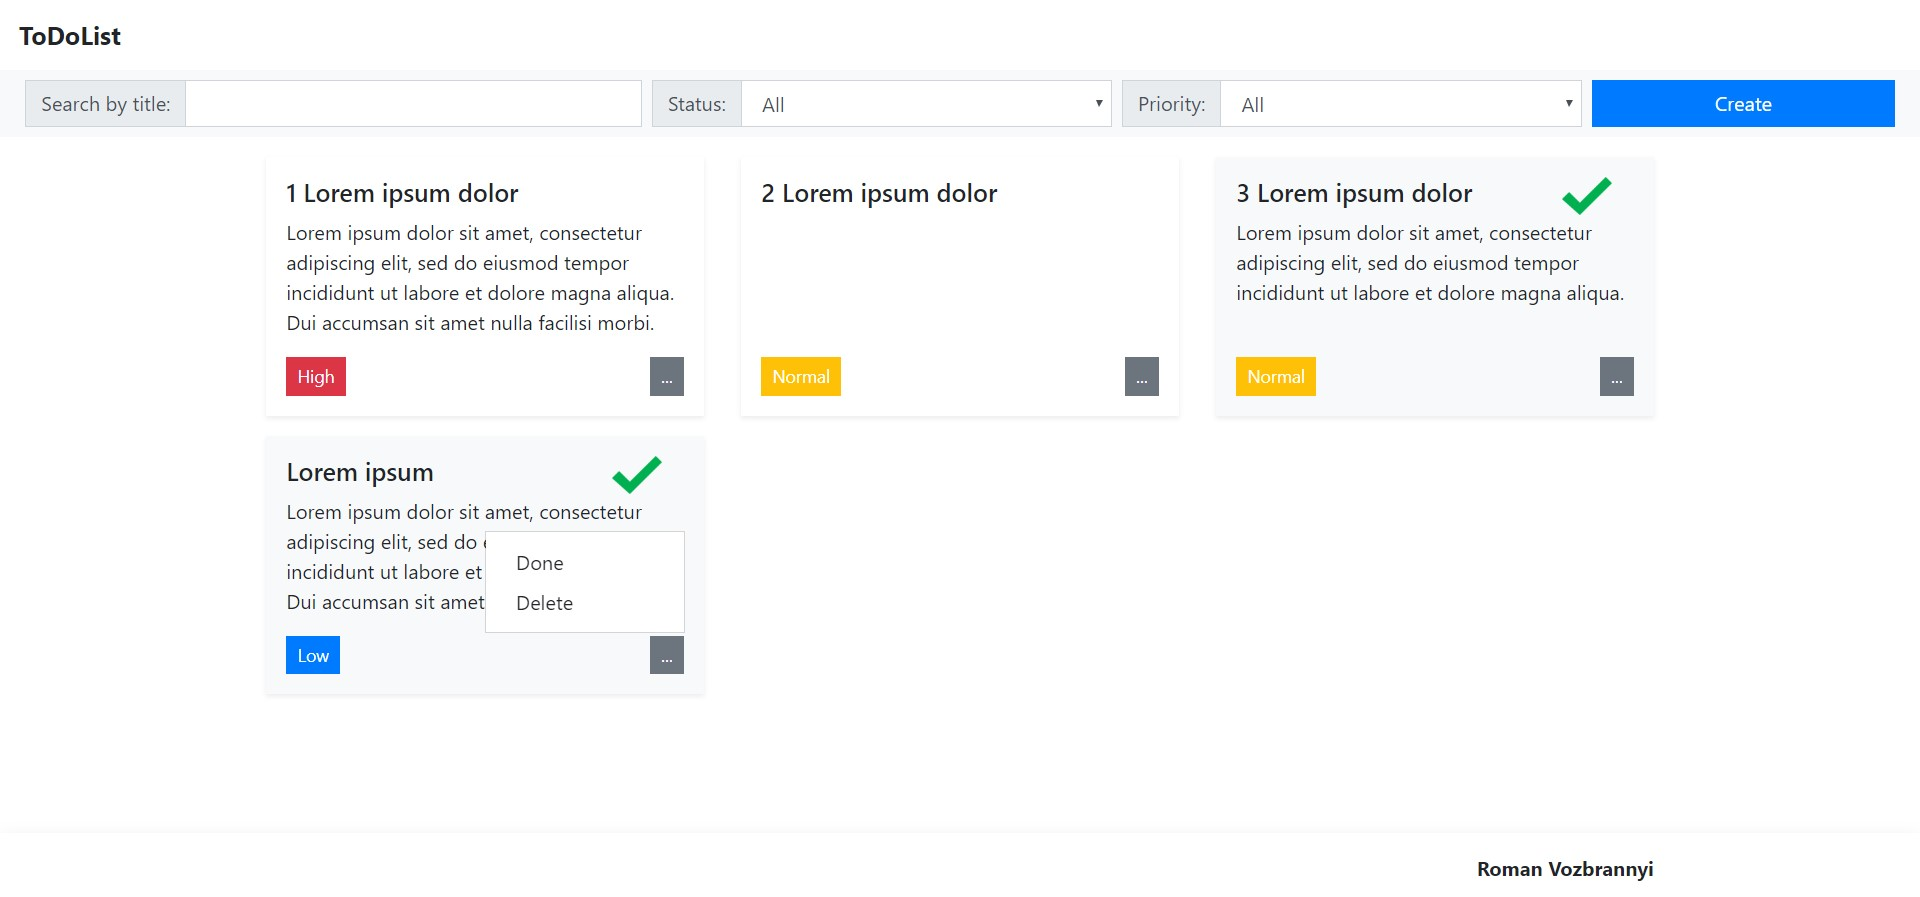
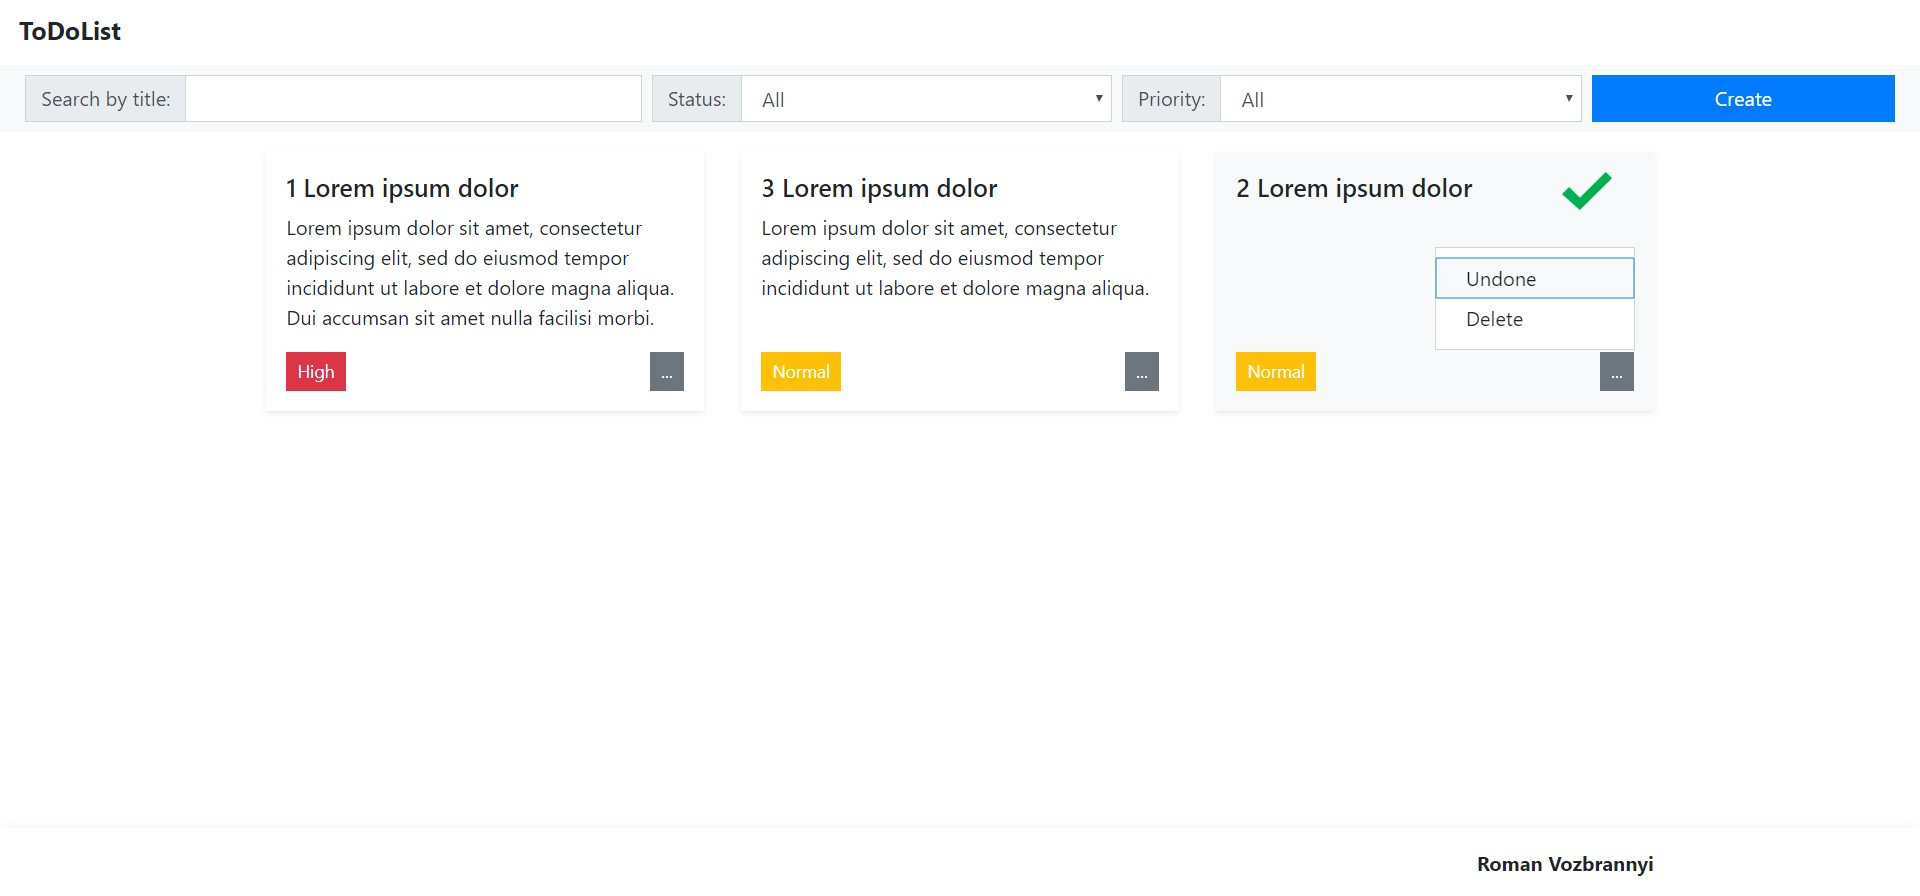
readme done

diff --git a/README.md b/README.md
@@ -1,6 +1,6 @@
 # ToDoList
 
-Desc...
+Simple todo-list.
 
 ## Usage
 
@@ -9,6 +9,7 @@ Desc...
 All user tasks displayed in the center of the window.
 Tasks are sorted by priority and status.
 
+---
 ### Create task
 ![alt text](screenshots/add%20task.jpg)
 You need to click "Create" button on the top right to open modal.
@@ -22,6 +23,7 @@ You need to click "Create" button on the top right to open modal.
 ![alt text](screenshots/form%20validation.jpg)
 Invalid input example.
 
+---
 ### Edit task
 ![alt text](screenshots/edit.jpg)
 1. To edit task you need to click "..." on the task.
@@ -33,7 +35,30 @@ Invalid input example.
 ![alt text](screenshots/edit%20done.jpg)
 You can edit only undone tasks.
 
+---
 ### Change task status
 ![alt text](screenshots/status.jpg)
 1. To change task you need to click "..." on the task.
 2. Click "Done" / "Undone" in the dropdown menu.
+
+---
+### Delete task
+![alt text](screenshots/delete.jpg)
+1. To delete task you need to click "..." on the task.
+2. Click "Delete" in the dropdown.
+
+---
+### Search by title
+![alt text](screenshots/search.jpg)
+Input search value in the field to search by title.
+
+---
+### Filter by status
+![alt text](screenshots/filter%20by%20status.jpg)
+Select status to filter.
+
+---
+### Filter by priority
+![alt text](screenshots/filter%20by%20priority.jpg)
+Select priority to filter.
+
